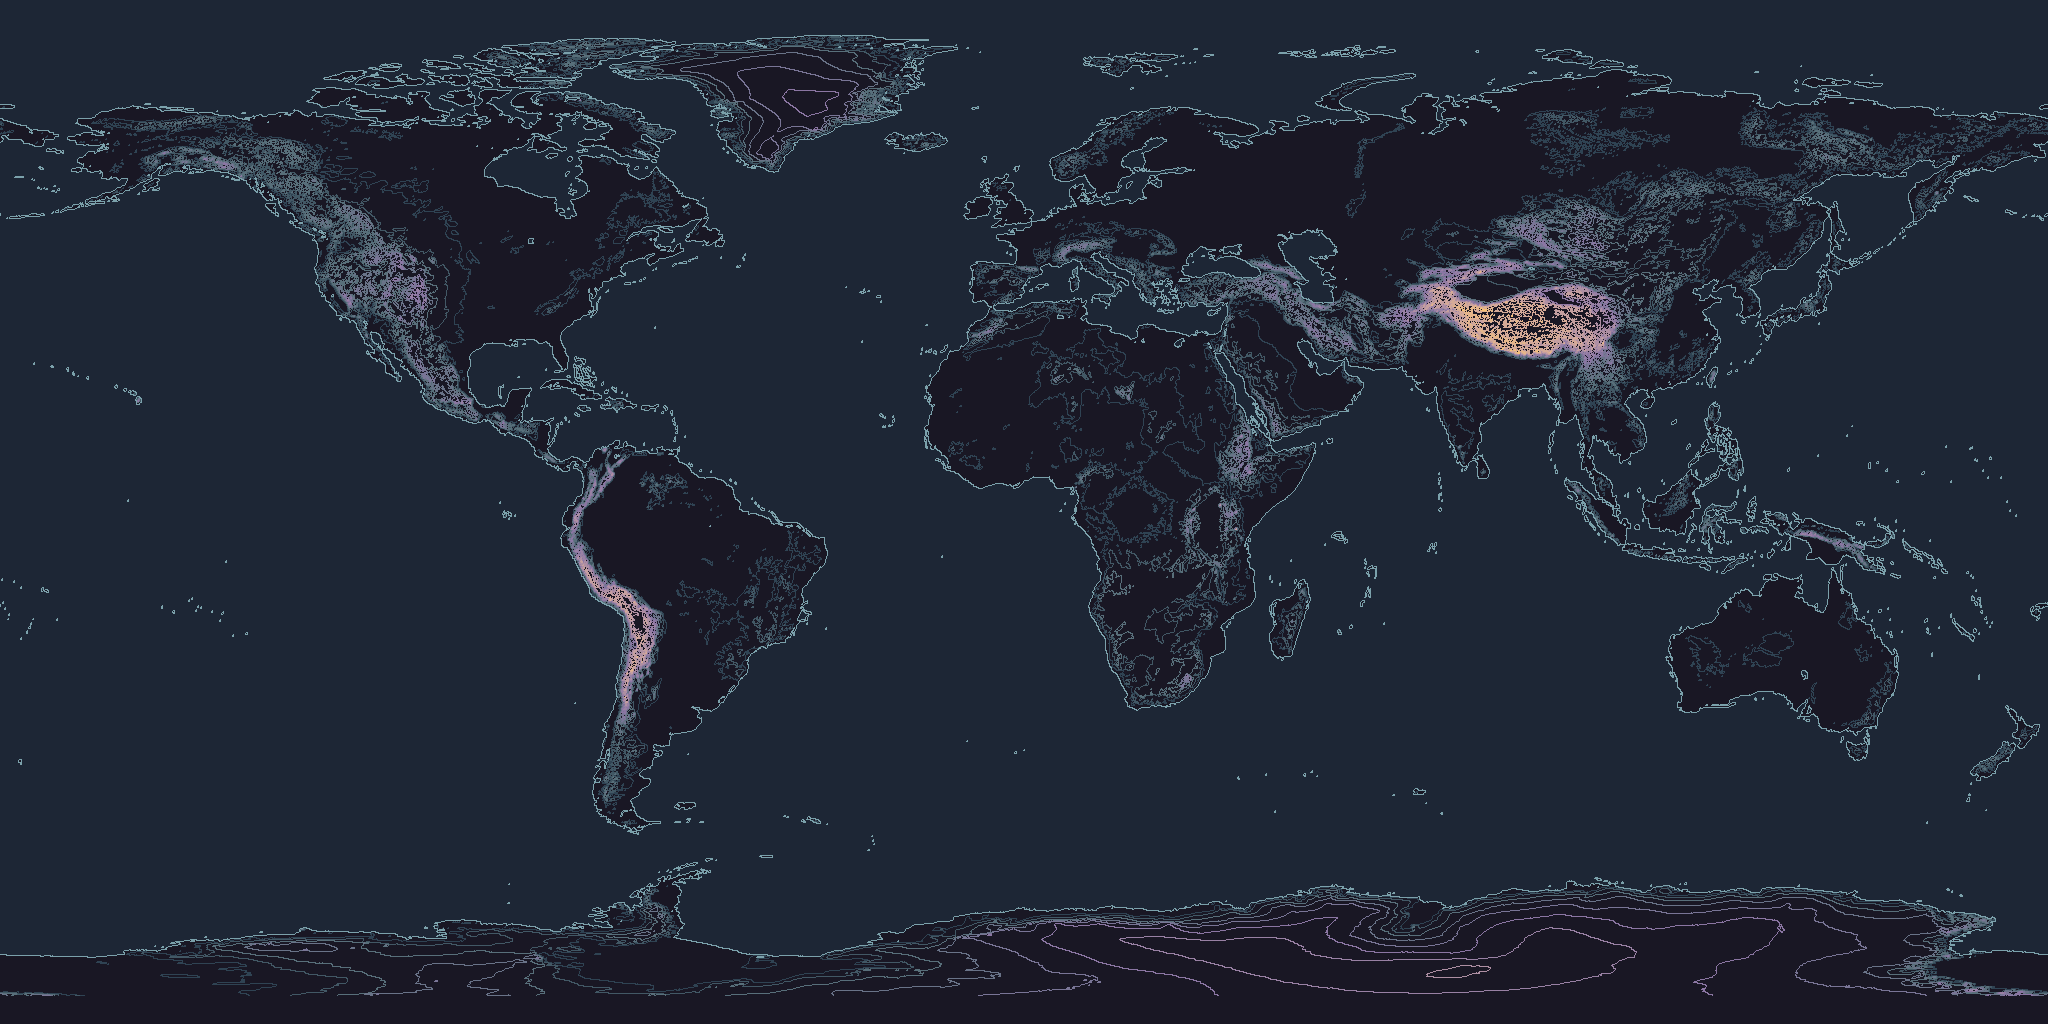
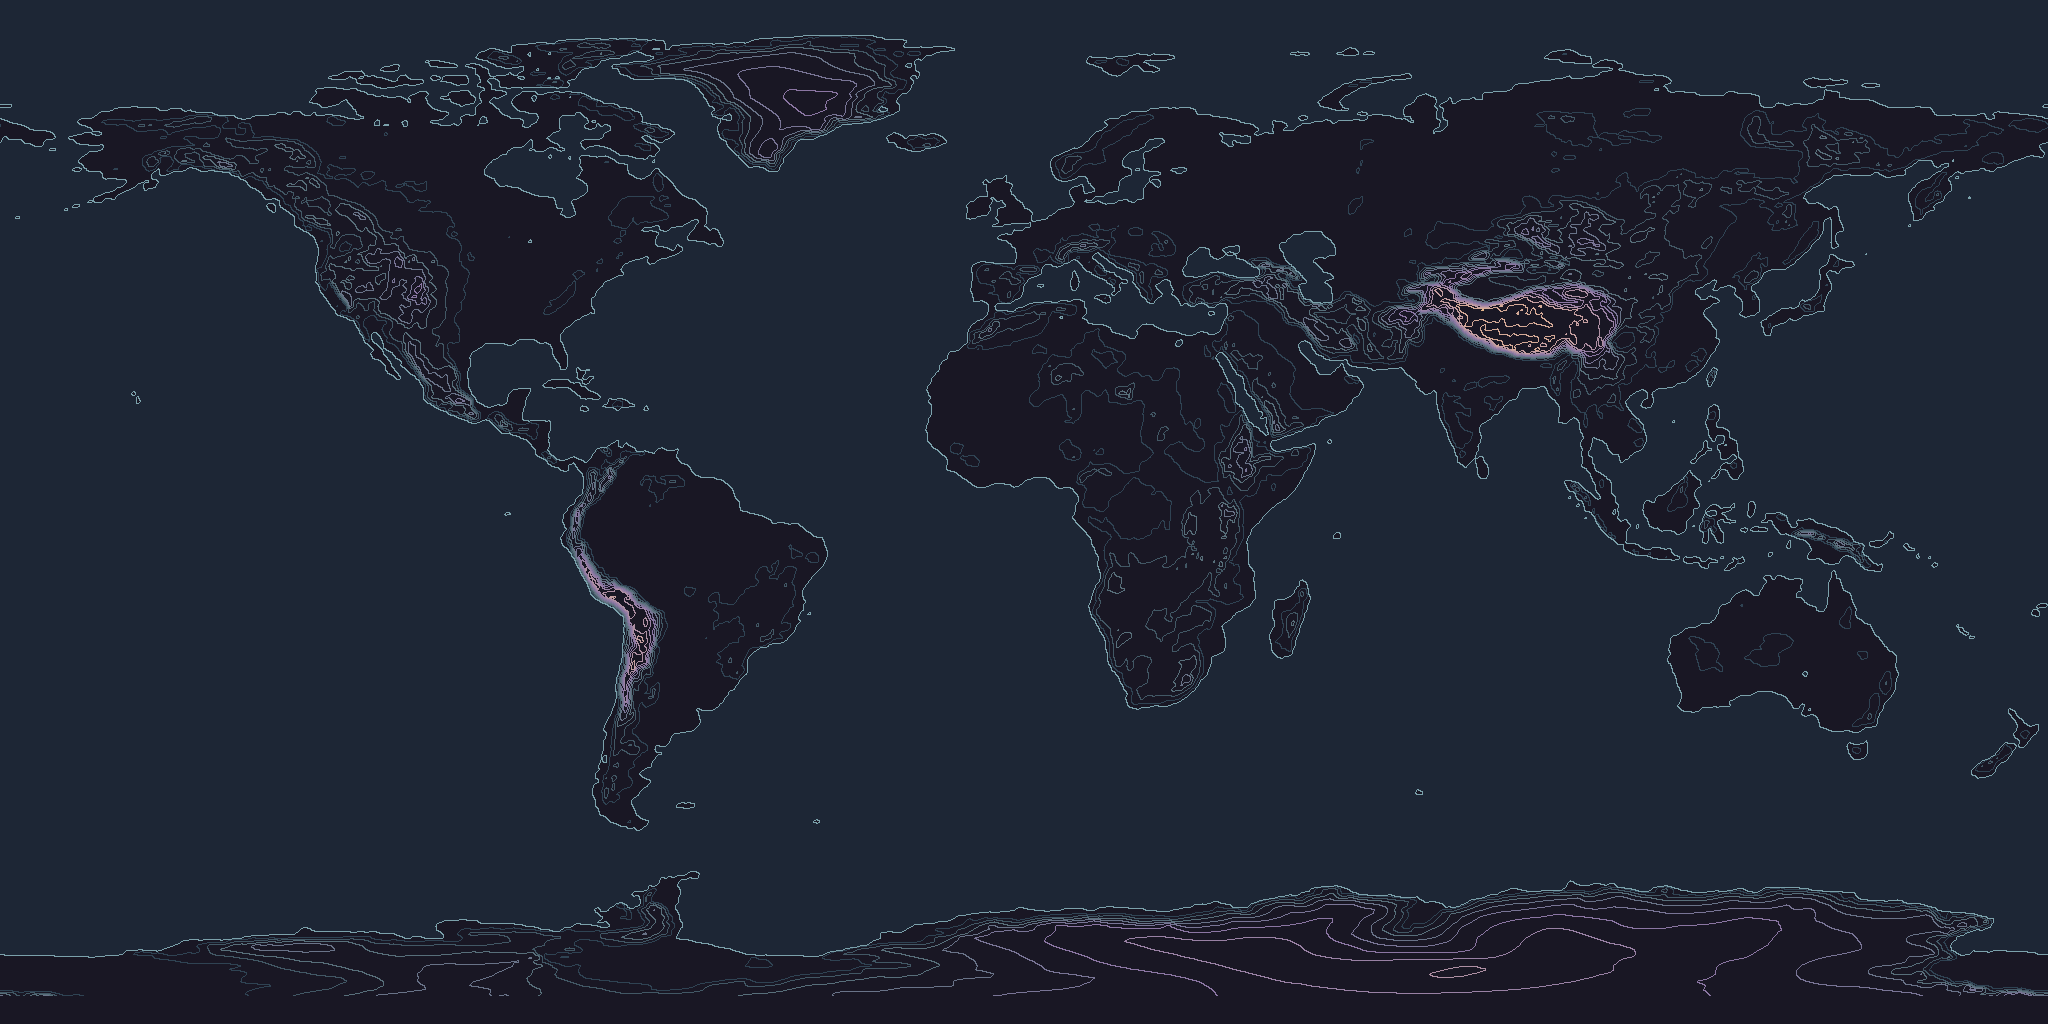
Globe: trace contours on smoothed elevation (4x downsample), coast from land fraction
Full-detail lines read as speckle at globe size. Heights are averaged over
4x4 texel blocks before tracing; the coastline comes from each block's
share of land (crossing at half), so it stays smooth rather than following
the block grid. The texture drops from 111 to 67 KB.

diff --git a/scripts/globe.ts b/scripts/globe.ts
@@ -24,6 +24,11 @@ const SIDE = TILE * 2 ** Z;
 /** Equirectangular texture: about one texel per screen pixel at the globe's size. */
 const W = 2048;
 const H = 1024;
+/**
+ * Lines are traced on elevation averaged over DOWNSAMPLE² texels: at globe
+ * size full-detail lines read as speckle, so they follow the broad shape.
+ */
+const DOWNSAMPLE = 4;
 /** Metres between contours; the ramp tops out at PEAK. */
 const INTERVAL = 500;
 const PEAK = 6000;
@@ -67,11 +72,45 @@ function elevation(lon: number, lat: number): number {
   return top * (1 - dy) + bottom * dy;
 }
 
-const elev = new Float32Array(W * H);
+const full = new Float32Array(W * H);
 for (let y = 0; y < H; y++) {
   const lat = 90 - ((y + 0.5) / H) * 180;
-  for (let x = 0; x < W; x++) elev[y * W + x] = elevation(((x + 0.5) / W) * 360 - 180, lat);
+  for (let x = 0; x < W; x++) full[y * W + x] = elevation(((x + 0.5) / W) * 360 - 180, lat);
 }
+
+/**
+ * `values` averaged over DOWNSAMPLE² blocks, then bilinear back up to full
+ * size (wrapping east-west): the same field, smoothed.
+ */
+function smooth(values: Float32Array): Float32Array {
+  const [cw, ch] = [W / DOWNSAMPLE, H / DOWNSAMPLE];
+  const coarse = new Float32Array(cw * ch);
+  for (let i = 0; i < W * H; i++) {
+    const [x, y] = [i % W, Math.floor(i / W)];
+    coarse[Math.floor(y / DOWNSAMPLE) * cw + Math.floor(x / DOWNSAMPLE)] += values[i] / DOWNSAMPLE ** 2;
+  }
+  const at = (cx: number, cy: number) => coarse[cy * cw + ((cx + cw) % cw)];
+  const out = new Float32Array(W * H);
+  for (let y = 0; y < H; y++) {
+    const fy = Math.max(0, Math.min(ch - 1, (y + 0.5) / DOWNSAMPLE - 0.5));
+    const y0 = Math.min(ch - 2, Math.floor(fy));
+    const dy = fy - y0;
+    for (let x = 0; x < W; x++) {
+      const fx = (x + 0.5) / DOWNSAMPLE - 0.5;
+      const x0 = Math.floor(fx);
+      const dx = fx - x0;
+      const top = at(x0, y0) * (1 - dx) + at(x0 + 1, y0) * dx;
+      const bottom = at(x0, y0 + 1) * (1 - dx) + at(x0 + 1, y0 + 1) * dx;
+      out[y * W + x] = top * (1 - dy) + bottom * dy;
+    }
+  }
+  return out;
+}
+
+const elev = smooth(full);
+// The coast from how much of each block is land, not from heights: the sea
+// is a flat 0, so averaged heights near shore would trace the block grid.
+const land = smooth(full.map((e) => (e > 0 ? 1 : 0)));
 
 // --- Palette ---------------------------------------------------------------------
 
@@ -98,8 +137,8 @@ for (let s = 0; s < STEPS; s++) {
 
 // --- Lines -------------------------------------------------------------------------
 
-/** Contour band of a height; the sea is its own band, below every line. */
-const band = (e: number) => (e <= 0 ? -1 : Math.floor(e / INTERVAL));
+/** Contour band of texel `i`; the sea (under half land) is its own band, below every line. */
+const band = (i: number) => (land[i] < 0.5 ? -1 : Math.floor(Math.max(0, elev[i]) / INTERVAL));
 
 const out = new Uint8Array(W * H);
 for (let y = 0; y < H; y++) {
@@ -111,11 +150,11 @@ for (let y = 0; y < H; y++) {
   for (let x = 0; x < W; x++) {
     const i = y * W + x;
     const e = elev[i];
-    const b = band(e);
+    const b = band(i);
     // A line where this texel's band differs from its right or lower neighbour.
-    const right = elev[y * W + ((x + 1) % W)];
-    const below = y + 1 < H ? elev[i + W] : e;
-    const [br, bb] = [band(right), band(below)];
+    const [ri, bi] = [y * W + ((x + 1) % W), y + 1 < H ? i + W : i];
+    const [right, below] = [elev[ri], elev[bi]];
+    const [br, bb] = [band(ri), band(bi)];
     if (b === br && b === bb) {
       out[i] = b < 0 ? 1 : 0;
     } else if (b < 0 || br < 0 || bb < 0) {
